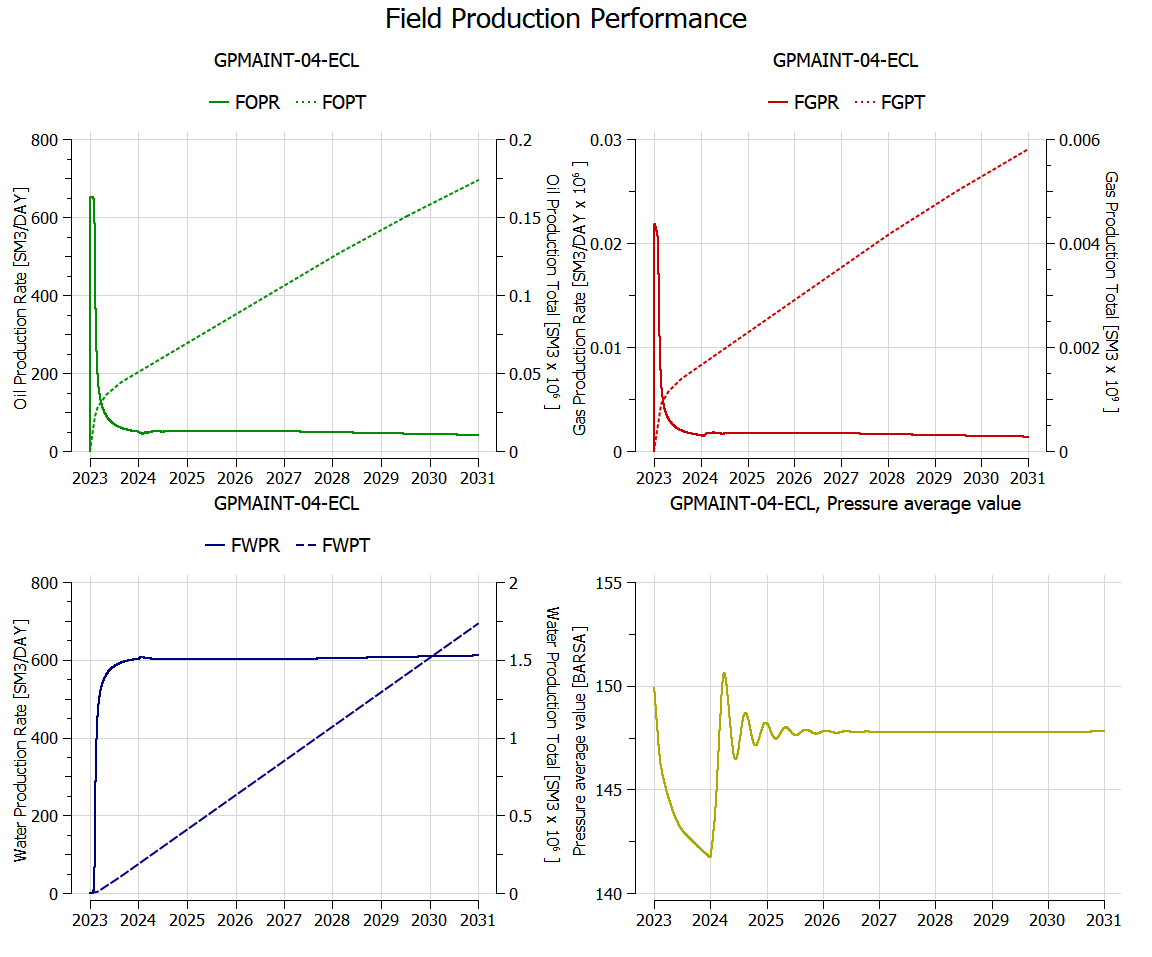
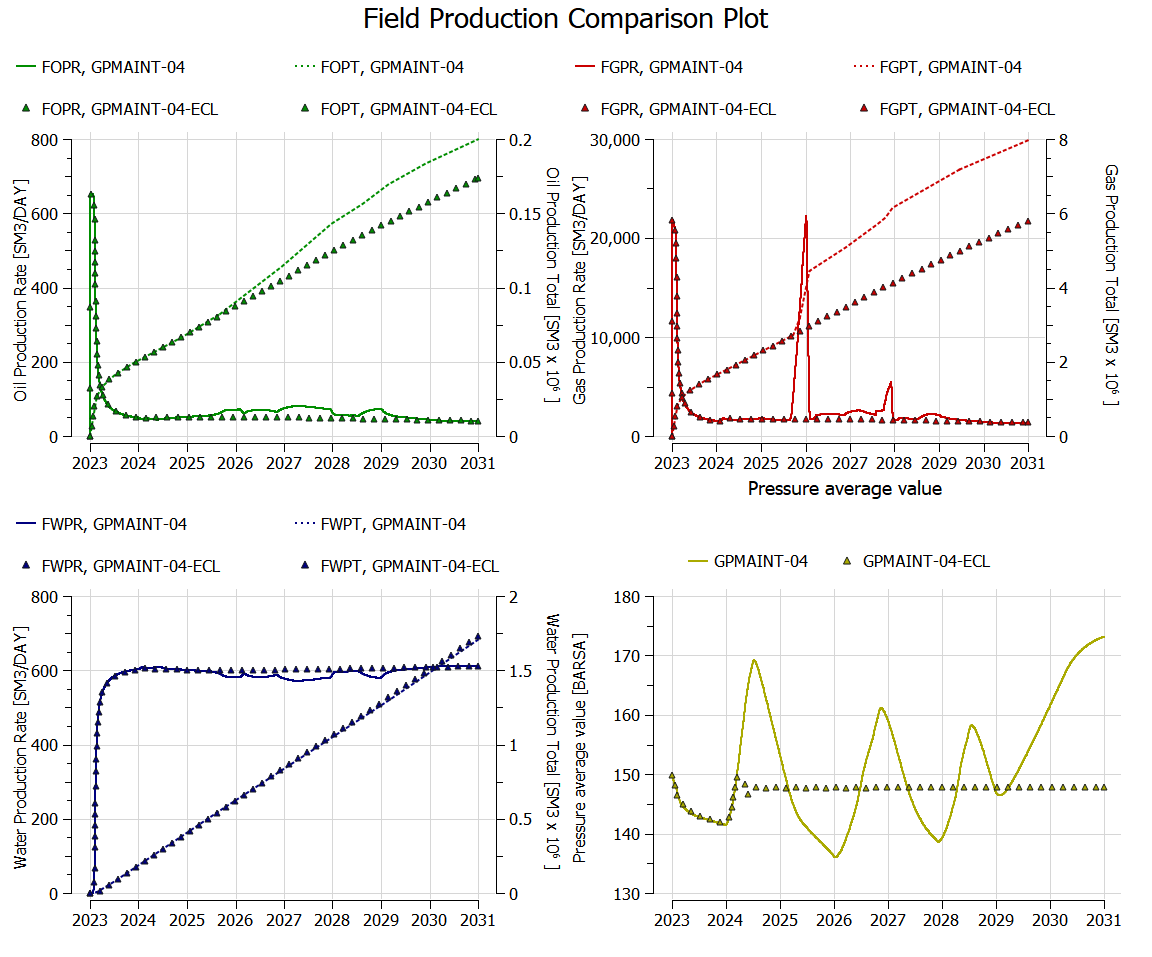
Update GPMAINT-04 Runs, but results different

diff --git a/gpmaint/GPMAINT.md b/gpmaint/GPMAINT.md
@@ -4,21 +4,21 @@ Case Name         | Case Desciption                                             
 ----------------- |----------------------------------------------------------------------------------------------------| ---------- | ----- |------- | ------------------------------------- |
 GPMAINT-01        | Base case GPMAINT using FIPNUM equal to 2 for LOWEAST group, and GPMAINT(GRPCNTL) equal to WINS    | GPMAINT |     | No         | OPM Flow throws an exception assemble() failed (It=0). <br /><br /> E100 runs as expected.
 GPMAINT-02        | GPMAINT using FIPLAYER equal to 2 for LOWEAST group, and GPMAINT(GRPCNTL) equal to WINS            | GPMAINT |     | No         | OPM Flow throws an exception assemble() failed (It=0). <br /><br /> E100 runs as expected.
-GPMAINT-03        | GPMAINT using FIPAREAS equal to 6 for LOWEAST group, and GPMAINT(GRPCNTL) equal to WINS            | GPMAINT |     | No         | OPM Flow throws an exception assemble() failed (It=0). <br /><br /> E100 runs as expected.
-GPMAINT-04        | GPMAINT using FIPNUM equal to 2 for LOWEAST group, GPMAINT(GRPCNTL) equal to WINS with GCONINJE    | GPMAINT |     | No         | OPM Flow throws an exception assemble() failed (It=0). <br /><br /> E100 runs as expected.
-GPMAINT-05        | GPMAINT using FIPAREAS equal to 4 and 6, and GPMAINT(GRPCNTL) equal to WINJ and WINS with GCONINJE | GPMAINT |     | No         | OPM Flow throws an exception assemble() failed (It=0). <br /><br /> E100 runs as expected.
+GPMAINT-03        | GPMAINT using FIPAREAS equal to 6 for LOWEAST group, and GPMAINT(GRPCNTL) equal to WINS            | GPMAINT |     | No         | OPM Flow throws an exception Unknown region ID.        <br /><br /> E100 runs as expected.
+GPMAINT-04        | GPMAINT using FIPNUM equal to 2 for LOWEAST group, GPMAINT(GRPCNTL) equal to WINS with GCONINJE    | GPMAINT |     | No         | **OPM Flow runs but the results are different.**       <br /><br /> E100 runs as expected.
+GPMAINT-05        | GPMAINT using FIPAREAS equal to 4 and 6, and GPMAINT(GRPCNTL) equal to WINJ and WINS with GCONINJE | GPMAINT |     | No         | OPM Flow throws an exception Unknown region ID.        <br /><br /> E100 runs as expected.
 GPMAINT-06        | GPMAINT using FIPAREAS equal to 1, 2 and 3, and GPMAINT(GRPCNTL) equal to GINJ                     | GPMAINT |     | No         | OPM Flow throws an exception assemble() failed (It=0). <br /><br /> E100 runs as expected.
 GPMAINT-07        | GPMAINT using FIPAREAS equal to 1, 2 and 3, and GPMAINT(GRPCNTL) equal to GINS and GINJ            | GPMAINT |     | No         | OPM Flow throws an exception assemble() failed (It=0). <br /><br /> E100 runs as expected.
 GPMAINT-08        | GPMAINT using FIPLAYER equal to 1, and GPMAINT(GRPCNTL) equal to OINJ                              | GPMAINT |     | No         | OPM Flow throws an exception assemble() failed (It=0). <br /><br /> E100 runs as expected.
 GPMAINT-09        | GPMAINT using FIPNUM equal to 1, and GPMAINT(GRPCNTL) equal to OINS                                | GPMAINT |     | No         | OPM Flow throws an exception assemble() failed (It=0). <br /><br /> E100 runs as expected.
-GPMAINT-10        | GPMAINT using FIPAREAS equal to 4 and 6, and GPMAINT(GRPCNTL) equal to PROD with GCONINJE          | GPMAINT |     | No         | OPM Flow throws an exception assemble() failed (It=0). <br /><br /> E100 runs as expected.
+GPMAINT-10        | GPMAINT using FIPAREAS equal to 4 and 6, and GPMAINT(GRPCNTL) equal to PROD with GCONINJE          | GPMAINT |     | No         | OPM Flow throws an exception Unknown region ID.        <br /><br /> E100 runs as expected.
 
 **Notes:**
 
 1. _Test Type_ column shows if the case is used for integration testing (_Int_), or regression testing (_Reg_).
 2. _Results Match_ column indicate if the OPM Flow results match the commercial simulator.
 
-**Version: 16 January 2023**
+**Version: 18 January 2023**
 
 ### GPMAINT Model Description  (Regular Corner-Point)
 Upper Reservoir
